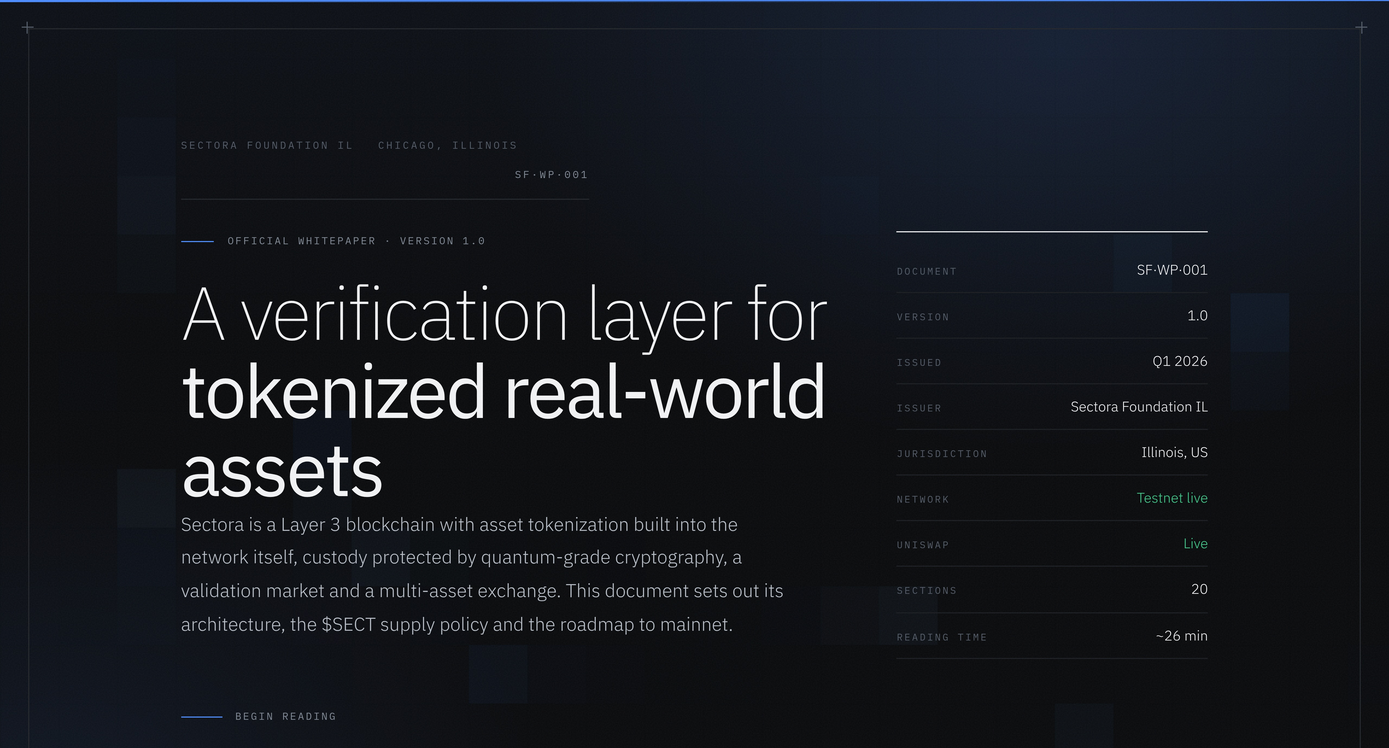
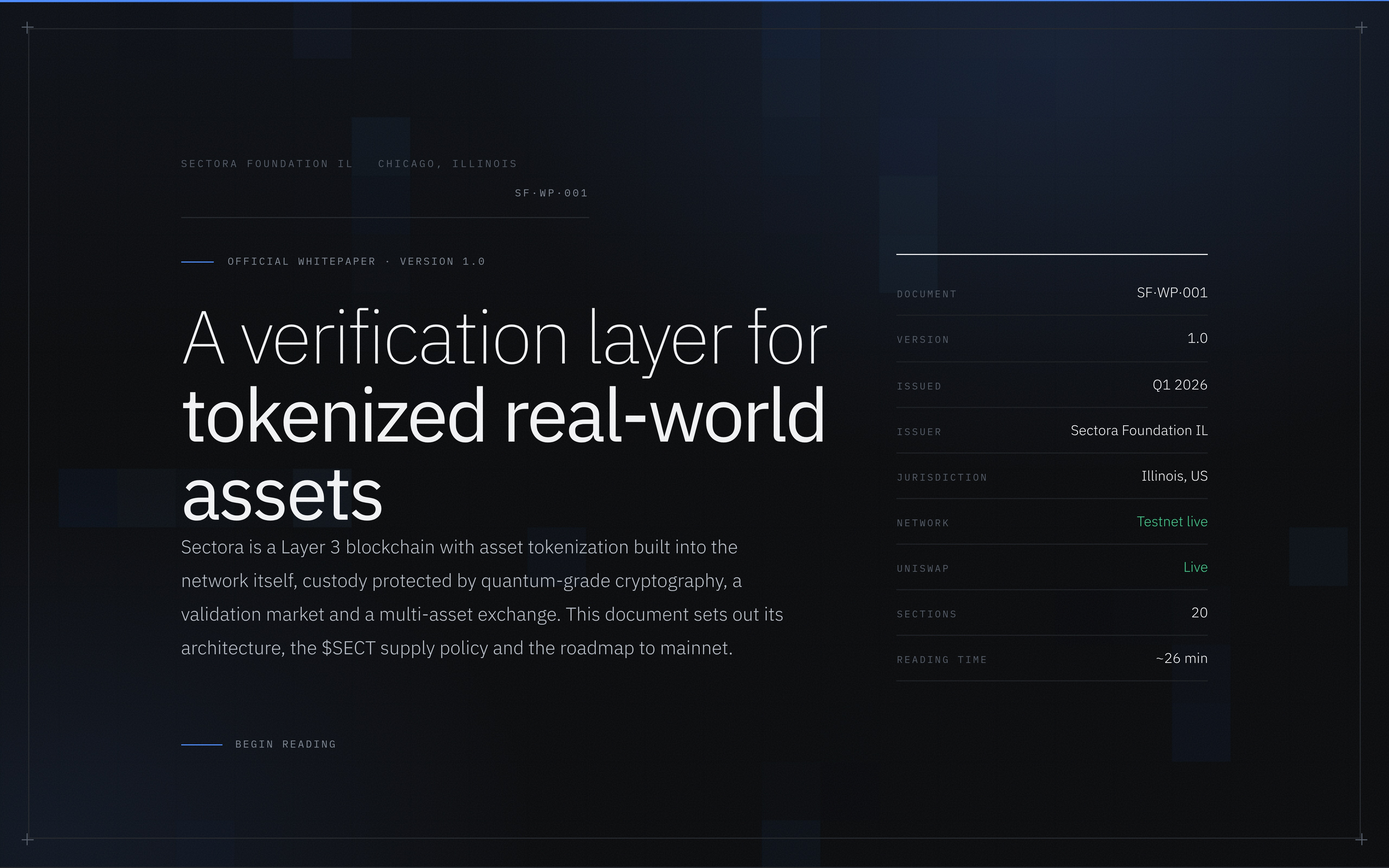
Restore top/bottom margin in the docs OG image
The previous crop clipped tightly to the content bounding box,
cutting off the cover section's own top/bottom padding that gave the
frame corner marks their breathing room. Crop to the full cover
section bounds instead.

Claude-Session: https://claude.ai/code/session_012XH3DXuKTEfxWgn6TkaSoC

diff --git a/docs/index.html b/docs/index.html
@@ -13,7 +13,7 @@
 <meta property="og:description" content="A verification and custody layer for tokenized real-world assets, built on a dedicated Layer 3 network.">
 <meta property="og:image" content="https://sectoraorg.com/docs/og-image.jpg">
 <meta property="og:image:width" content="5120">
-<meta property="og:image:height" content="2756">
+<meta property="og:image:height" content="3200">
 <meta property="og:image:type" content="image/jpeg">
 <meta name="twitter:card" content="summary_large_image">
 <meta name="twitter:title" content="Whitepaper v1.0 — Sectora Foundation">
